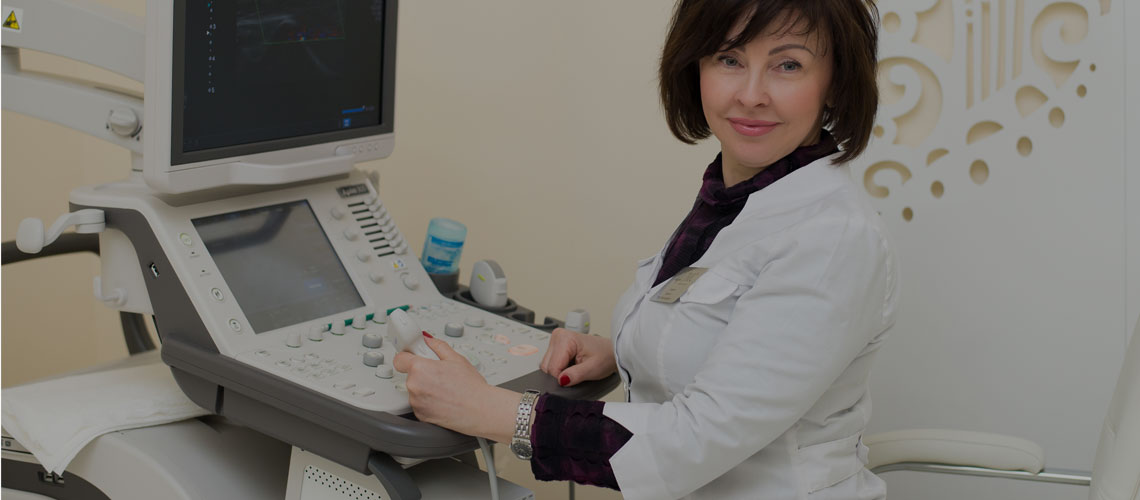
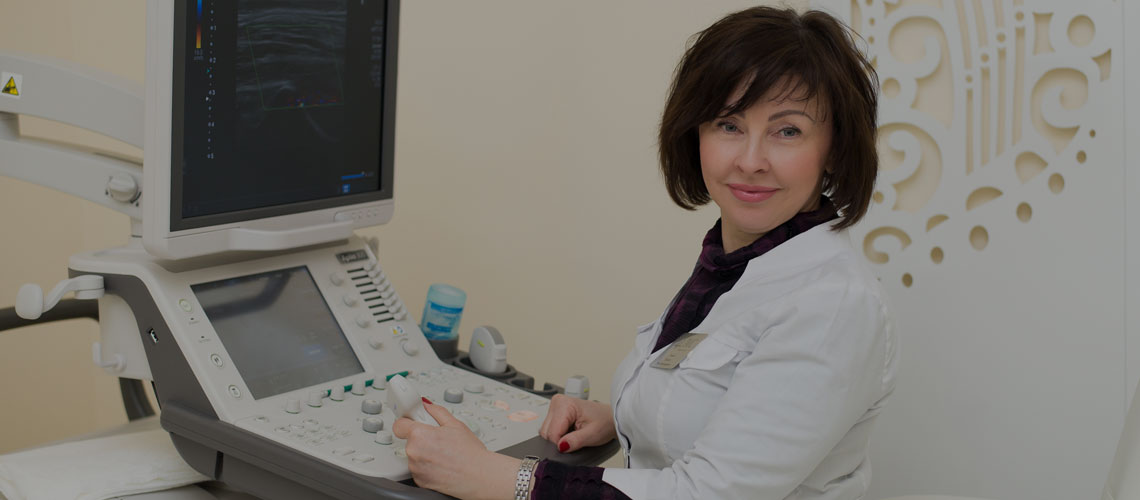
sliders 2&3

diff --git a/pages/equipment.php b/pages/equipment.php
@@ -72,7 +72,7 @@
 
 
         <div style=" margin-top: 40px; margin-bottom: 40px; clear: both;">
-            <img src="../img/equipment/DSC_6242.jpg" width="480px"  style="float:left; margin-right: 35px; margin-bottom: 30px;  " >
+            <img src="../img/equipment/DSC_6240.jpg" width="480px"  style="float:left; margin-right: 35px; margin-bottom: 30px;  " >
             <p class="markh3b">УЗД аппарат –  Logiq F6 Premium</p>
             <div style="text-align: justify; margin-top: 30px;">
                 <p><strong>Аппарат ультразвуковой диагностики LOGIQ F6 Premium</strong>&nbsp;сочетает в себе максимум возможностей при очень демократичной себестоимости. Одна такая система способна заменить целый ряд приборов во многих отделениях и проводить разноплановые ультразвуковые обследования благодаря встроенным в нее инновационным технологиям.</p>
@@ -132,7 +132,7 @@
 
 
         <div style=" margin-top: 40px; margin-bottom: 40px;">
-            <img src="../img/equipment/500.jpg" width="480px"  style="float:left; margin-right: 35px; margin-bottom: 30px;  " >
+            <img src="../img/equipment/DSC_2953.jpg" width="480px"  style="float:left; margin-right: 35px; margin-bottom: 30px;  " >
             <p class="markh3b">Электрокардиограф 6/12 канальный Heaco ECG600G</p>
             <div style="text-align: justify; margin-top: 30px;">
 
@@ -181,8 +181,17 @@
 
         <div style=" margin-top: 40px; margin-bottom: 40px;">
             <img src="../img/equipment/DSC_6003.jpg" width="480px" style="float:left; margin-right: 35px; margin-bottom: 30px;  " >
-            <p class="markh3b">Olympus ESG-100</p>
+            <p class="markh3b">Электрохирургическая установка <br>Olympus ESG-100</p>
             <div style="text-align: justify; margin-top: 30px;">
+
+                <p>Этот инновационный продукт отвечает всем международным стандартам качества. Выходная мощность 120 Вт и разнообразие монополярных и биполярных режимов резания и коагуляции позволяет проводить любые электрохирургические вмешательства в гибкой эндоскопии. Электрохирургическая установка Olympus ESG-100 базируется на инновационной технологии фирмы Olympus — Rapid Spark Technology, что позволяет использовать ее для всех электрохирургических процедур в гибкой эндоскопии; включает в себя следующие функции:</p>
+
+               <p> Функция поддержания рассечения с использованием электроэнергии большой мощности (High Power Cut Support, HPCS)оптимизирует старт процедуры рассечения тканей для поддержания непосредственного зажигания искрового разряда и снижения риска механического рассечения тканей.</p>
+               <p> Функция регистрации быстрых разрядов (Fast Spark Monitor, FSM) обеспечивает беспрепятственное и щадящее рассечение различных тканей (например, мышечной или жировой ткани). Позволяет прикладывать настолько низкую выходную мощность, насколько это возможно, но и настолько высокую, насколько это нужно. Значительно сокращает токи утечки и защищает эндоскопический инструментарий.</p>
+               <p> Новая электрохирургическая установка Olympus ESG-100 включает в себя и другие дополнительные функции, что делает ее одним из самых безопасных имеющихся электрохирургических приборов:
+                Датчик защиты от утечек (Leakage Protection Sensor, LPS) постоянно контролирует ток утечек на землю; это позволяет отказаться от S-шнура, делая процедуру проще и дешевле
+
+                Датчик качества контакта с кожей (CQM) – постоянно контролирует контактное сопротивление пластины пациента, обеспечивая безопасность применения и минимизируя риск термического поражения. Если площадь соприкосновения пластины пациента с кожей уменьшается до 30%, подается визуальный сигнал тревоги.</p>
 
                 <p>Электрохирургический высокочастотный генератор EGS-100 от OLYMPUS представляет собой простой в использовании и безопасный генератор, в котором используются прогрессивные технологии. В сочетании с перистальтическим насосом AFU-100 он обеспечивает проверенную эффективность и стабильность выходной мощности при различных процедурах.</p>
 
@@ -266,61 +275,73 @@
 
         <div style=" margin-top: 40px; margin-bottom: 40px;">
             <img src="../img/equipment/album002.jpg" width="480px"  style="float:left; margin-right: 35px; margin-bottom: 30px;  " >
-            <p class="markh3b">Холтер ЭКГ BI6600-3 </p>
+            <p class="markh3b">  ЭКГ мониторинг суточного артериального давления Холтер BI6600-3 </p>
             <div style="text-align: justify; margin-top: 30px;">
 
-                <p><strong>Аппарат ультразвуковой диагностики LOGIQ F6 Premium</strong>&nbsp;сочетает в себе максимум возможностей при очень демократичной себестоимости. Одна такая система способна заменить целый ряд приборов во многих отделениях и проводить разноплановые ультразвуковые обследования благодаря встроенным в нее инновационным технологиям.</p>
+                <p>Еврейский Медицинский Центр JMC продолжает расширять спектр услуг, в том числе и диагностических, с помощью современной аппаратурной базы, и теперь предлагает высокоточную кардиологическую диагностику с помощью ультрасовременных, миниатюрных аппаратов для осуществления суточного мониторирования.</p>
 
-                <p>УЗ аппарат Logiq F6 предоставляет возможность недорогого диагностирования, используя при этом высокую производительность и передовые преимущества. Logiq F6 оснащен встроенными инновационными инструментами, как, например, Scan Coach, который помогает специалистам быстро и намного качественно диагностировать пациента.</p>
+                <p>И аппараты, и необходимое для них программное обеспечение позволяют удобно измерять в течение 24, а то и 48 часов, артериальное давление или фиксировать все изменения ЭКГ. При этом не надо менять образ жизни, наоборот исследования проводятся в реальных условиях, а потому показывают более достоверную картинку.</p>
 
-                <p><strong>Характерные &nbsp;особенности УЗИ аппарата LOGIQ F6 Premium:</strong></p>
+                <p>Как аппарат для ЭКГ &laquo;Регистратор суточный по методу Холтера&raquo;, так и монитор для суточной регистрации АД &laquo;Прибор для суточного мониторирования АД&raquo; &ndash; удобны и комфортны, а высококвалифицированные специалисты и консультанты центра &ndash; ведущие специалисты в области функциональной диагностики в кардиологии, доктора и кандидаты медицинских наук, помогут правильно интерпретировать результаты и назначить, при необходимости, эффективное лечение.</p>
 
-                <ul>
-                    <li>Понятный и простой интерфейс;</li>
-                    <li>Индивидуальная настройка параметров 19-ти дюймового &nbsp;дисплея и сенсорной панели управления;&nbsp;</li>
-                    <li>Настройка качества изображения режимом Auto Optimization;</li>
-                    <li>Оснащение технологией Scan Coach, которая организовывает выбор плоскости сканирования при получении изображений (отвечает за повышение эффективности диагностики, ускорение рабочего процесса и принятие решений);&nbsp;</li>
-                    <li>Объемная визуализация (3D/4D);</li>
-                    <li>Вшитые протоколы многих исследований;</li>
-                    <li>Функции повышения качества картинки Speckle-Reduction Imaging (подавление зернистости) и Phase-Inversion Harmonics (фазово-инверсионная тканевая гармоника);</li>
-                    <li>Эластография, отражающая относительную эластичность ткани в B-режиме;</li>
-                    <li>Повышение быстродействия и удобства при работе с системой благодаря Scan Assistant;</li>
-                    <li>Оценка толщины слоя интима&ndash;медиа сонных артерий за счет Auto IMT.</li>
-                </ul>
+                <p>Предварительно записаться на Холтеровское мониторирование ЭКГ или суточное мониторирование артериального давления, а также получить подробную информацию можно по телефонам &laquo;JMC&raquo;: 050&nbsp;900 76 61; 096&nbsp;551 75 65; 71&nbsp;770 58, 71&nbsp;770 59.</p>
 
-                <p><strong>Области применения:</strong></p>
+                <p>Для нашего сайта Председатель правления JMC, доктор медицинских наук, профессор А.Г.Родинский, рассказал более подробно об этих методах исследования:</p>
 
-                <ul>
-                    <li>Абдоминальные исследования</li>
-                    <li>Акушерство, гинекология, урология</li>
-                    <li>Кардиология</li>
-                    <li>Педиатрия</li>
-                    <li>Онкология</li>
-                    <li>Неврология</li>
-                    <li>Травматология и ортопедия</li>
-                    <li>Эндокринология</li>
-                    <li>Ангиология</li>
-                    <li>Неонатология</li>
-                    <li>Транскраниальные исследования</li>
-                </ul>
+                <p><strong>Холтеровское мониторирование:</strong></p>
 
-                <p><strong>Режимы сканирования:</strong></p>
+                <p>&nbsp;Суточное (Холтеровское) мониторирование ЭКГ &ndash; метод длительной регистрации электрической активности сердца в условиях обычной жизни и активности пациента. Холтеровское мониторирование дает возможность записи ЭКГ в течение длительного времени (обычно в течение суток), к тому же электрокардиограмма записывается не в кабинете врача, в покое, а в условиях привычной активности пациента. ЭКГ &ndash; это всего лишь &laquo;кадр&raquo;, моментальный &laquo;снимок&raquo; работы сердца, а Холтеровское мониторирование &ndash; &laquo;фильм&raquo; о 24 часах жизни сердца.</p>
 
-                <p>Оптимизация работы УЗ аппарата LOGIQ F6 Premium происходит четко и быстро. Объемное сканирование задействует несколько функций для получения дополнительной информации: High Volume Data (по анатомическому строению) и 3D Multi-Planar Imaging (для оценивания состояния плода).&nbsp;</p>
+                <p>&nbsp;Методика Холтеровского мониторирования ЭКГ позволяет:</p>
 
-                <p>Изображение можно усекать плоскостью или реконструировать различными техниками (прозрачность, поверхность, скелет).</p>
+                <p>&bull;&nbsp;&nbsp;&nbsp;&nbsp;&nbsp;&nbsp; оценить деятельность сердца в условиях обычной активности пациента (реакция сердца на физическую и эмоциональную нагрузку);</p>
 
-                <p>Типы датчиков: &nbsp;конвексные, микроконвексные, секторные электронные, линейные, комбинированные ректовагинальные.</p>
+                <p>&bull;&nbsp;&nbsp;&nbsp;&nbsp;&nbsp;&nbsp; оценить состояние сердца во время сна, ритм и проводимость сердца в течение суток;</p>
 
-                <p><strong>Специализированные измерения и вычисления:</strong></p>
+                <p>&bull;&nbsp;&nbsp;&nbsp;&nbsp;&nbsp;&nbsp; уточнить причину обмороков и предобморочных состояний и т.д.;</p>
 
-                <ul>
-                    <li>Пакеты расчетов и суммарные заключения для кардиологии / ангиологии</li>
-                    <li>Пакеты расчетов и суммарные заключения для акушерства / гинекологии</li>
-                    <li>Протокол отслеживания внутриутробного развития плода</li>
-                    <li>Программы расчетов при многоплодной беременности / для суставной дисплазии</li>
-                    <li>Пакеты расчетов и суммарные заключения для урологии, при исследованиях почек</li>
-                </ul>
+                <p>&bull;&nbsp;&nbsp;&nbsp;&nbsp;&nbsp;&nbsp; выявить и проанализировать все виды аритмий;</p>
+
+                <p>&bull;&nbsp;&nbsp;&nbsp;&nbsp;&nbsp;&nbsp; выявить эпизоды болевой и безболевой ишемии миокарда;</p>
+
+                <p>&bull;&nbsp;&nbsp;&nbsp;&nbsp;&nbsp;&nbsp; поставить точный диагноз, повысить эффективность лечения сердечно-сосудистых заболеваний и проконтролировать действие назначенных лекарств;</em></p>
+
+                <p>&nbsp;<strong>Как производится Холтеровское мониторирование:</strong></p>
+
+                <p>Холтеровское мониторирование &ndash; это абсолютно безопасный метод исследования, проводится в амбулаторных условиях. Противопоказаний к его проведению нет. Аппарат, регистрирующий ЭКГ в течение суток, представляет собой небольшую коробочку, размером меньше мобильного телефона. Ее прикрепляют на пояс с помощью ремня или вешают на грудь. На грудную клетку специальным пластырем приклеивают электроды в положенных точках. Через сутки аппарат снимают и расшифровывают запись на компьютере. Во время мониторирования от пациента не требуется ограничения физической нагрузки или изменения привычного ритма жизни.</p>
+
+                <p>&nbsp;<strong>В каких случаях рекомендуется Холтеровское мониторирование ЭКГ:</strong></p>
+
+                <p>&bull;&nbsp;&nbsp;&nbsp;&nbsp;&nbsp;&nbsp; диагностика аритмий при жалобах на частое или медленное сердцебиение, перебои в работе сердца, неритмичный пульс, эпизоды головокружения, сильной слабости или потери сознания, ощущение остановки сердца;</p>
+
+                <p>&bull;&nbsp;&nbsp;&nbsp;&nbsp;&nbsp;&nbsp; диагностика ишемии (кислородного голодания) миокарда при жалобах на давящие, сжимающие, жгучие боли за грудиной, особенно при нагрузке, перед назначением нагрузочных проб, жалобы на ощущение &laquo;кома в горле&raquo;, изжогу, эпизоды болей в нижней челюсти или локтях;</p>
+
+                <p>&bull;&nbsp;&nbsp;&nbsp;&nbsp;&nbsp;&nbsp; контроль работы установленного электрокардиостимулятора;</p>
+
+                <p>&bull;&nbsp;&nbsp;&nbsp;&nbsp;&nbsp;&nbsp; наблюдение за состоянием пациента в динамике, в том числе контроль эффективности лечения.</p>
+
+                <p>&nbsp;<strong>Суточное мониторирование артериального давления (АД):</strong></p>
+
+                <p>&nbsp;<strong>Мониторы суточного АД Heaco</strong>&nbsp;используются, когда человек страдает гипертонией, гипотонией, вегето-сосудистой дистонией или сердечной недостаточностью, для своевременного определения изменения давления и своевременного принятия необходимых медикаментов. Если больной жалуется на головную боль, у него часто бывает носовые кровотечения или обморочные состояния.</p>
+
+                <p>&nbsp;<strong>Монитор суточного артериального давления</strong>&nbsp;&ndash; это полностью автоматизированный, компактный, удобный медицинский аппарат, позволяющий с большой точностью определять артериальное давление в любое время суток в динамики. Данный монитор может фиксировать показатели давления и частоту пульса в течение 24 - 48 часов автоматически. В данной методике возможно применение нескольких принципов измерения АД: осциллометрического, аускультативного, а также гибридного, который сочетает в себе первые два принципа.</p>
+
+                <p>&nbsp;Артериальное давление человека не является постоянным показателем, имеет тенденцию к колебаниям в течение суток. Для точной диагностики динамики изменений артериального давления (АД) исследуют этот показатель с помощью суточных мониторов. Аппарат регистрирует полную динамику в изменении АД в заданный промежуток времени. По динамике изменений врач подбирает наиболее эффективное индивидуальное лечение. Таким образом, появляется возможность снизить риск многих грозных заболеваний (инсульт, инфаркт, ишемическая болезнь сердца, поражение сосудов и т.д.).</p>
+
+                <p>&nbsp;Суточный монитор АД регистрирует такие стандартные показатели:</p>
+
+                <p>&bull;&nbsp;&nbsp;&nbsp;&nbsp;&nbsp;&nbsp; среднее показание давления (диастолическое, систолическое, пульсовое артериальное) и ЧСС, в течение дня-ночи, суток;</p>
+
+                <p>&bull;&nbsp;&nbsp;&nbsp;&nbsp;&nbsp;&nbsp; среднее значение артериального давления и ЧСС (в час);</p>
+
+                <p>&bull;&nbsp;&nbsp;&nbsp;&nbsp;&nbsp;&nbsp; минимальное и максимальное давление и ЧСС в разное время суток;</p>
+
+                <p>&bull;&nbsp;&nbsp;&nbsp;&nbsp;&nbsp;&nbsp; суточный индекс, который отражает ночное снижение артериального давления;</p>
+
+                <p>&bull;&nbsp;&nbsp;&nbsp;&nbsp;&nbsp;&nbsp; динамику и характер изменений показателей артериального давления.&nbsp;</p>
+
+                <p>Суточный монитор АД применяют следующим образом: на руке пациента закрепляют манжету измерения артериального давления. Аппарат фиксирует измерения, с заданной периодичностью (зависит от времени суток). После ознакомления с результатами врач может дать заключение и рекомендации, определить характер медикаментозной терапии.</p>
+
 
             </div>
         </div>

diff --git a/pages/slider3.php b/pages/slider3.php
@@ -1,58 +1,60 @@
-<div id="myCarousel" class="carousel slide" data-ride="carousel">
+<div id="myCarousel" class="carousel slide" data-ride="carousel" style="background-color: black;">
     <!-- Indicators -->
-    <ol class="carousel-indicators">
+    <ol class="carousel-indicators" style=" top: 90%;">
         <li data-target="#myCarousel" data-slide-to="0" class="active"></li>
         <li data-target="#myCarousel" data-slide-to="1"></li>
         <li data-target="#myCarousel" data-slide-to="2"></li>
         <li data-target="#myCarousel" data-slide-to="3"></li>
-        <li data-target="#myCarousel" data-slide-to="4"></li>
-        <li data-target="#myCarousel" data-slide-to="5"></li>
+ <!--        <li data-target="#myCarousel" data-slide-to="4"></li> -->
+      <!--   <li data-target="#myCarousel" data-slide-to="5"></li> -->
 
     </ol>
 
     <!-- Wrapper for slides -->
     <div class="carousel-inner" role="listbox">
 
-        <div class="item active">
-             <a href="index.php?page=equipment"><img src="img/slider/12.jpg" alt="Chania" width="460" height="345"></a>
-            <div class="carousel-caption">
-                <h3>реклама процедуры</h3>
-                <p>Название оборудования </p>
-            </div>
-        </div>
+     
 
         <div class="item">
-             <a href="index.php?page=equipment"><img src="img/slider/16.jpg" alt="Chania" width="460" height="345"></a>
-            <div class="carousel-caption">
-                <h3>реклама процедуры</h3>
-                <p>Название оборудования </p>
+             <a href="index.php?page=equipment"><img src="img/slider/13.jpg" alt="Chania" width="460" height="345" style="opacity: 0.7;"></a>
+            <div class="carousel-caption" style=" padding-bottom: 20px;">
+                <h3>Лор-установка </h3>
+               <a href="../index.php?page=equipment" class="diraction_form_button hvr-grow-shadow" style="line-height: 35px !important; min-width: 168px;      text-shadow: 0 0px 0px rgba(0,0,0,0.6);  ">узнать больше</a>
             </div>
         </div>
 
-        <div class="item">
-             <a href="index.php?page=equipment"><img src="img/slider/7.jpg" alt="Flower" width="460" height="345"></a>
-            <div class="carousel-caption">
-                <h3>реклама процедуры</h3>
-                <p>Название оборудования </p>
+        <!--  <div class="item">
+             <a href="index.php?page=equipment"><img src="img/slider/12.jpg" alt="Chania" width="460" height="345" style="opacity: 0.7;"></a>
+            <div class="carousel-caption" style=" padding-bottom: 20px;">
+                <h3>LOGIQ F6 Premium</h3>
+               <a href="../index.php?page=equipment" class="diraction_form_button hvr-grow-shadow" style="line-height: 35px !important; min-width: 168px;      text-shadow: 0 0px 0px rgba(0,0,0,0.6);  ">узнать больше</a>
+            </div>
+        </div> -->
+         <div class="item active">
+             <a href="index.php?page=equipment"><img src="img/slider/7.jpg" alt="Chania" width="460" height="345" style="opacity: 0.7;"></a>
+            <div class="carousel-caption" style=" padding-bottom: 20px; ">
+                <h3>Электрохирургия Olympus</h3>
+                 <a href="../index.php?page=equipment" class="diraction_form_button hvr-grow-shadow" style="line-height: 35px !important; min-width: 168px;      text-shadow: 0 0px 0px rgba(0,0,0,0.6);  ">узнать больше</a>
             </div>
         </div>
 
-        <div class="item">
-             <a href="index.php?page=equipment"><img src="img/slider/20.jpg" alt="Flower" width="460" height="345" class="img_slid"></a>
-            <div class="carousel-caption">
-                <h3>реклама процедуры</h3>
-                <p>Название оборудования </p>
+         <div class="item">
+             <a href="index.php?page=equipment"><img src="img/slider/22.jpg" alt="Chania" width="460" height="345" style="opacity: 0.7;"></a>
+            <div class="carousel-caption" style=" padding-bottom: 20px;">
+                <h3>Видеогастроколоноскоп</h3>
+               <a href="../index.php?page=equipment" class="diraction_form_button hvr-grow-shadow" style="line-height: 35px !important; min-width: 168px;      text-shadow: 0 0px 0px rgba(0,0,0,0.6);  ">узнать больше</a>
             </div>
         </div>
 
-        <div class="item">
-            <a href="index.php?page=equipment"><img src="img/slider/19.jpg" alt="Flower" width="460" height="345" class="img_slid"></a>
-
-            <div class="carousel-caption">
-                <h3>реклама процедуры</h3>
-                <p>Название оборудования </p>
+         <div class="item">
+             <a href="index.php?page=equipment"><img src="img/slider/25.jpg" alt="Chania" width="460" height="345" style="opacity: 0.7;"></a>
+            <div class="carousel-caption" style=" padding-bottom: 20px;">
+                <h3>Электрокардиограф </h3>
+               <a href="../index.php?page=equipment" class="diraction_form_button hvr-grow-shadow" style="line-height: 35px !important; min-width: 168px;      text-shadow: 0 0px 0px rgba(0,0,0,0.6);  ">узнать больше</a>
             </div>
         </div>
+
+        
 
     </div>
 

diff --git a/pages/slider2.php b/pages/slider2.php
@@ -1,5 +1,5 @@
-<div id="myCarousel" class="carousel slide" data-ride="carousel">
-    <!-- Indicators -->
+<div id="myCarousel" class="carousel slide" data-ride="carousel" style="background-color: black;" >
+   
     <ol class="carousel-indicators" style="    top: 90%;">
         <li data-target="#myCarousel" data-slide-to="0" class="active"></li>
         <li data-target="#myCarousel" data-slide-to="1"></li>
@@ -11,7 +11,7 @@
     <div class="carousel-inner" role="listbox">
 
         <div class="item active">
-             <a href="index.php?page=equipment"><img src="img/slider/21.jpg" alt="Chania" width="460" height="345"></a>
+             <a href="index.php?page=equipment"><img src="img/slider/23.jpg" alt="Chania" width="460" height="345" style="opacity: 0.7;"></a>
             <div class="carousel-caption" style=" padding-bottom: 20px;">
                 <h3>TOSHIBA Aplio 300</h3>
                  <a href="../index.php?page=equipment" class="diraction_form_button hvr-grow-shadow" style="line-height: 35px !important; min-width: 168px;      text-shadow: 0 0px 0px rgba(0,0,0,0.6);  ">узнать больше</a>
@@ -19,12 +19,13 @@
         </div>
 
         <div class="item">
-             <a href="index.php?page=equipment"><img src="img/slider/20.jpg" alt="Chania" width="460" height="345"></a>
+             <a href="index.php?page=equipment"><img src="img/slider/20.jpg" alt="Chania" width="460" height="345" style="opacity: 0.7;"></a>
             <div class="carousel-caption" style=" padding-bottom: 20px;">
                 <h3>LOGIQ F6 Premium</h3>
                <a href="../index.php?page=equipment" class="diraction_form_button hvr-grow-shadow" style="line-height: 35px !important; min-width: 168px;      text-shadow: 0 0px 0px rgba(0,0,0,0.6);  ">узнать больше</a>
             </div>
         </div>
+
     </div>
 
     <!-- Left and right controls -->
